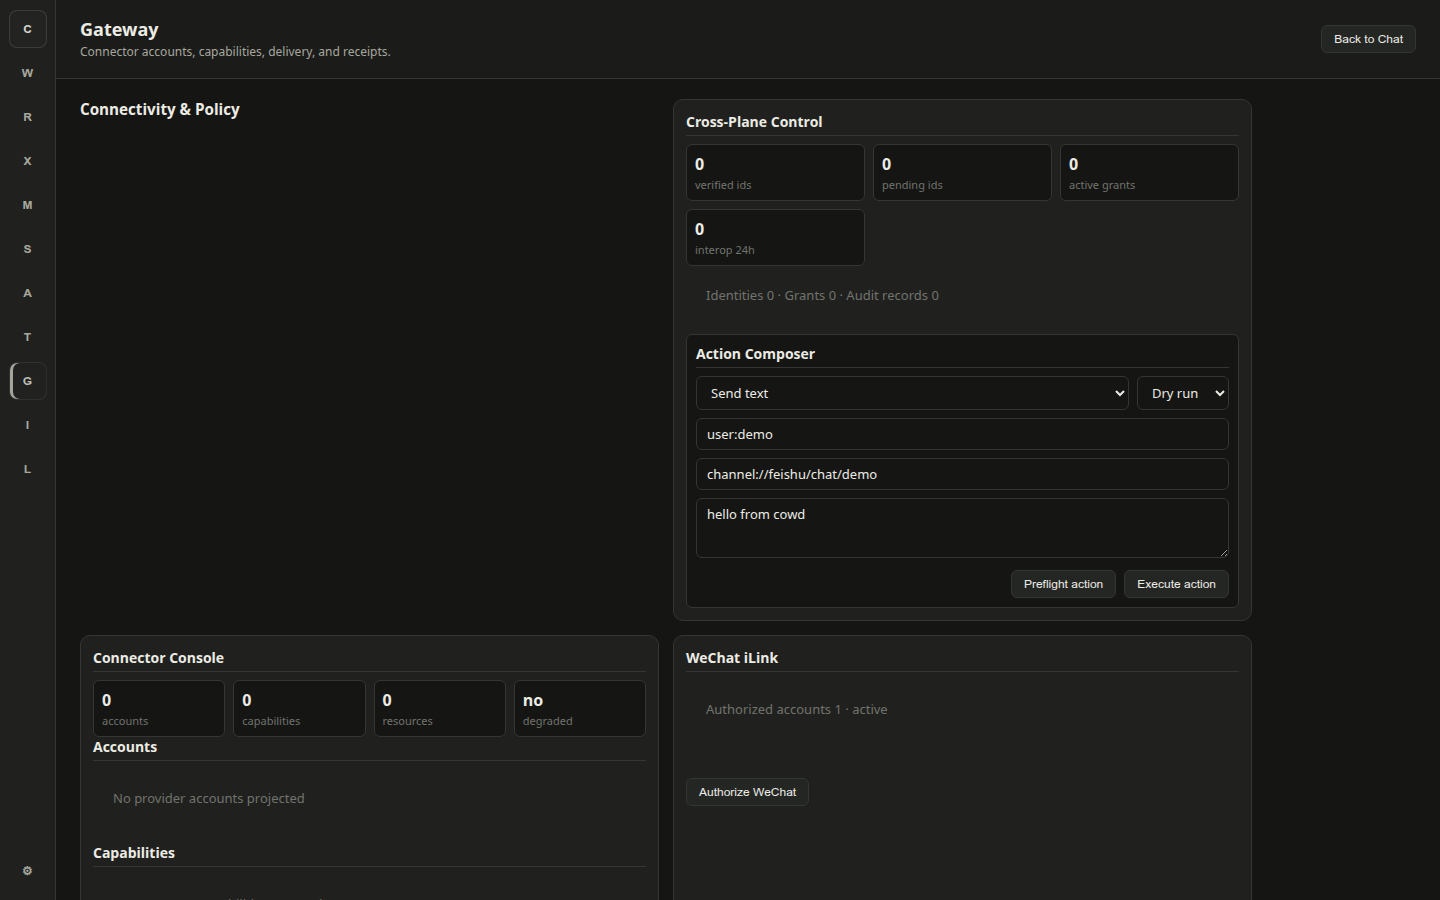
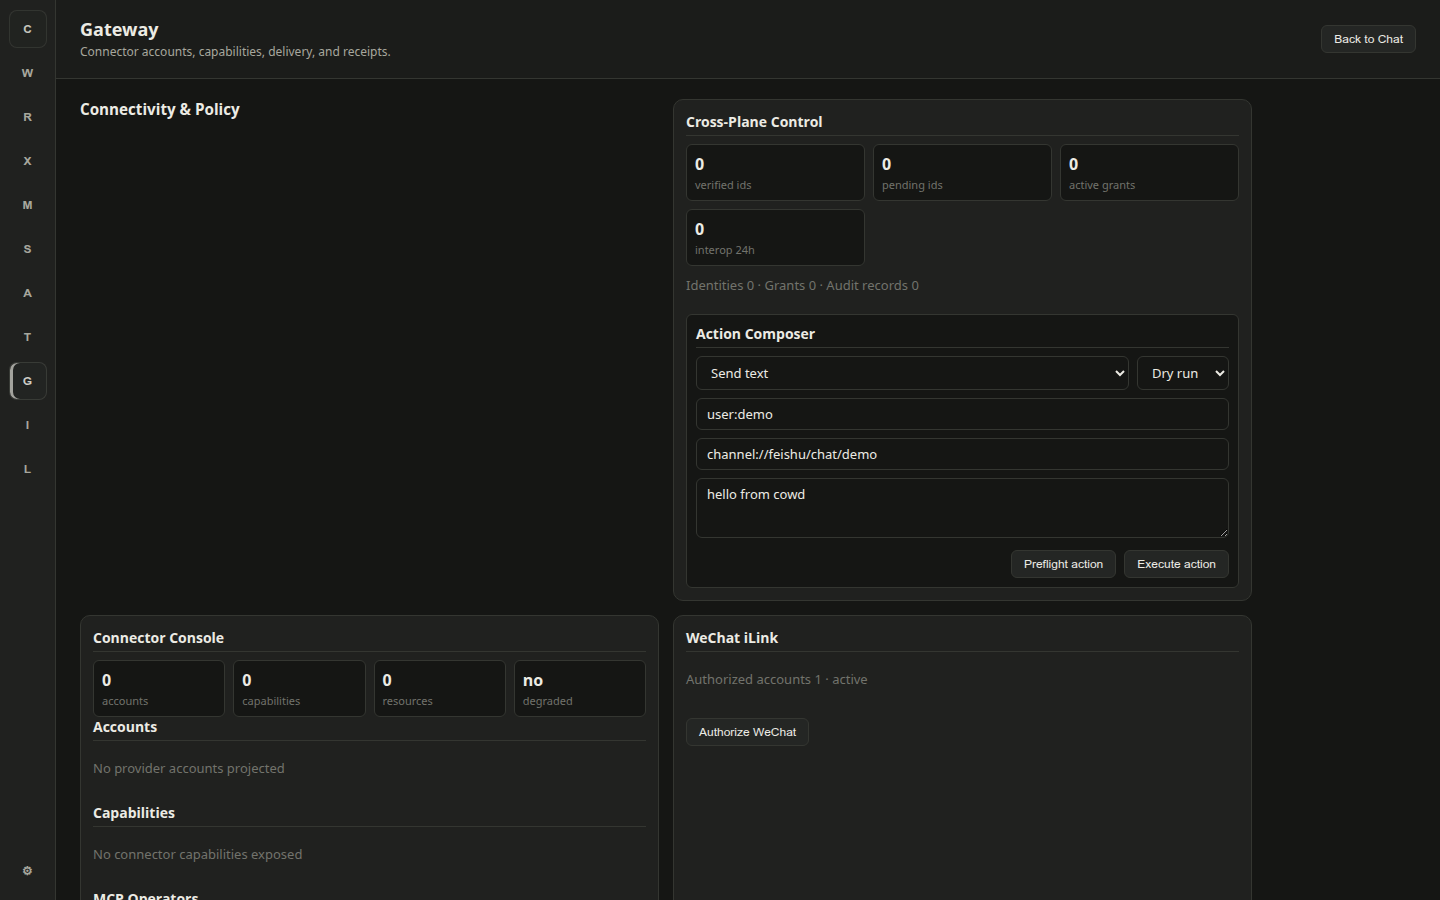
feat(webui): expand settings workbench polish

diff --git a/webui/panels.js b/webui/panels.js
@@ -2222,8 +2222,8 @@ window.Panels = (()=>{
   }
 
   async function renderSettings(){
-    const c=cont();c.innerHTML='<h3>Settings</h3>';
-    const themeSec=UI.el('div','panel-section');
+    const c=cont();c.innerHTML='';
+    const themeSec=UI.el('div','panel-section settings-theme');
     themeSec.innerHTML='<h3>Theme</h3>';
     const themeSel=UI.el('select');
     themeSel.innerHTML='<option value="dark">Dark</option><option value="light">Light</option><option value="system">System</option>';
@@ -2239,15 +2239,49 @@ window.Panels = (()=>{
     themeSec.appendChild(themeSel);
     c.appendChild(themeSec);
 
-    const modelSec=UI.el('div','panel-section');
+    const modelSec=UI.el('div','panel-section settings-model');
     modelSec.innerHTML='<h3>Default Model</h3>';
     try{
       const cfg=await Api.getConfig();
-      modelSec.innerHTML+='<p style="font-size:12px;color:var(--text2)">Current: '+(cfg.model||'unknown')+'</p>';
+      const metrics=UI.el('div','memory-metrics');
+      metrics.appendChild(renderMemoryMetric('current',cfg.model||'unknown','model'));
+      metrics.appendChild(renderMemoryMetric('version',cfg.version||'unknown','cowd'));
+      modelSec.appendChild(metrics);
     }catch(e){}
     c.appendChild(modelSec);
 
-    const profileSec=UI.el('div','panel-section');
+    const providerSec=UI.el('div','panel-section settings-providers');
+    providerSec.innerHTML='<h3>Providers</h3>';
+    c.appendChild(providerSec);
+    try{
+      const providers=await Api.getProviders();
+      const list=Array.isArray(providers.providers)?providers.providers:(Array.isArray(providers)?providers:[]);
+      const metrics=UI.el('div','memory-metrics');
+      metrics.appendChild(renderMemoryMetric('providers',list.length,'configured'));
+      metrics.appendChild(renderMemoryMetric('models',providers.model_count??providers.provider_model_count??0,'available'));
+      metrics.appendChild(renderMemoryMetric('resolved',providers.configured_model_resolved?'yes':'n/a','route'));
+      providerSec.appendChild(metrics);
+      if(list.length){
+        list.slice(0,6).forEach(function(provider){
+          const item=UI.el('div','panel-item provider-item');
+          const name=UI.el('span','pi-name');
+          name.textContent=[provider.name||provider.id||provider.provider||'provider',provider.kind||provider.type].filter(Boolean).join(' · ');
+          const actions=UI.el('span','pi-actions');
+          const badge=UI.el('span','profile-active');
+          badge.textContent=provider.status||provider.health||'configured';
+          actions.appendChild(badge);
+          item.appendChild(name);
+          item.appendChild(actions);
+          providerSec.appendChild(item);
+        });
+      }else{
+        providerSec.appendChild(UI.el('div','panel-empty','No providers reported'));
+      }
+    }catch(e){
+      providerSec.appendChild(UI.el('div','panel-empty','Providers unavailable'));
+    }
+
+    const profileSec=UI.el('div','panel-section settings-profiles');
     profileSec.innerHTML='<h3>Profiles</h3>';
     const createRow=UI.el('div','profile-create-row');
     const input=UI.el('input');
@@ -2314,6 +2348,16 @@ window.Panels = (()=>{
     }catch(e){
       profileSec.appendChild(UI.el('div','panel-empty','Profiles unavailable'));
     }
+
+    const securitySec=UI.el('div','panel-section settings-security');
+    securitySec.innerHTML='<h3>Security</h3>';
+    const authToken=localStorage.getItem('cowd-auth-token');
+    const metrics=UI.el('div','memory-metrics');
+    metrics.appendChild(renderMemoryMetric('auth',authToken?'stored':'not stored','browser'));
+    metrics.appendChild(renderMemoryMetric('origin',location.origin||'local','webui'));
+    metrics.appendChild(renderMemoryMetric('theme',localStorage.getItem('cowd-theme')||'dark','local'));
+    securitySec.appendChild(metrics);
+    c.appendChild(securitySec);
   }
 
   async function renderCCConfig(){

diff --git a/webui/webui-shell.e2e.spec.js b/webui/webui-shell.e2e.spec.js
@@ -22,6 +22,16 @@ async function routeShellApis(page) {
 
     if (path === '/api/auth/verify') return json({ ok: true });
     if (path === '/api/config') return json({ model: 'claude-sonnet-4-6', version: '0.9.202' });
+    if (path === '/api/config/providers') return json({
+      providers: [{ name: 'anthropic', kind: 'llm', status: 'ready' }, { name: 'local-tools', kind: 'tooling', status: 'ready' }],
+      model_count: 2,
+      configured_model_resolved: true,
+    });
+    if (path === '/api/profiles') return json({
+      profiles: [{ id: 'default', name: 'default', is_active: true }, { id: 'enterprise_ops', name: 'enterprise_ops', is_active: false }],
+      active_profile: 'default',
+      runtime_profile: 'default',
+    });
     if (path === '/api/sessions') return json({ sessions: [], total: 0, offset: 0, limit: 20 });
     if (path === '/api/workspace/files') return json({ files: [
       { name: 'README.md', path: 'README.md', is_dir: false },
@@ -391,6 +401,40 @@ test('v0.9.209 iacc renders as manufacturing application workbench on cowd data 
 
   await page.setViewportSize({ width: 390, height: 844 });
   await page.screenshot({ path: '../plan/0616-前端重构/screenshots/v0.9.209-iacc-mobile.png' });
+
+  expect(errors).toEqual([]);
+});
+
+test('v0.9.210 settings renders operational controls with polished responsive layout', async ({ page }) => {
+  const errors = [];
+  page.on('pageerror', err => errors.push('pageerror: ' + err.message));
+  page.on('console', msg => {
+    if (msg.type() !== 'error') return;
+    const text = msg.text();
+    if (text.includes('Failed to load resource')) return;
+    if (text.includes('Failed to find a valid digest')) return;
+    errors.push('console: ' + text);
+  });
+
+  await routeShellApis(page);
+  await page.setViewportSize({ width: 1440, height: 900 });
+  await page.goto('http://127.0.0.1:9241/index.html', { waitUntil: 'domcontentloaded' });
+
+  await page.click('#nav-rail [data-view="settings"]');
+  await expect(page.locator('#workbench-content.workbench-page-settings')).toBeVisible();
+  await expect(page.locator('#workbench-title')).toHaveText('Settings');
+  await expect(page.locator('#workbench-content')).toContainText('Theme');
+  await expect(page.locator('#workbench-content')).toContainText('Default Model');
+  await expect(page.locator('#workbench-content')).toContainText('Providers');
+  await expect(page.locator('#workbench-content')).toContainText('Profiles');
+  await expect(page.locator('#workbench-content')).toContainText('Security');
+  await expect(page.locator('#workbench-content')).toContainText('claude-sonnet-4-6');
+  await expect(page.locator('#workbench-content')).toContainText('anthropic');
+  await expect(page.locator('#workbench-content')).toContainText('enterprise_ops');
+  await page.screenshot({ path: '../plan/0616-前端重构/screenshots/v0.9.210-settings-desktop.png' });
+
+  await page.setViewportSize({ width: 390, height: 844 });
+  await page.screenshot({ path: '../plan/0616-前端重构/screenshots/v0.9.210-settings-mobile.png' });
 
   expect(errors).toEqual([]);
 });

diff --git a/webui/style.css b/webui/style.css
@@ -99,7 +99,7 @@ pre,code{font-family:var(--font-mono);font-size:13px}
 .workbench-content input:focus,.workbench-content select:focus,.workbench-content textarea:focus{outline:none;border-color:var(--accent);box-shadow:0 0 0 2px var(--focus-ring)}
 .workbench-content .panel-section{max-width:1120px}
 .workbench-content .panel-section h3{font-size:14px}
-.workbench-content .panel-empty{text-align:left}
+.workbench-content .panel-empty{text-align:left;padding:10px 0;min-height:0}
 .workspace-page{display:flex;flex-direction:column;gap:16px}
 .workspace-hero{display:flex;align-items:flex-start;justify-content:space-between;gap:16px;max-width:1120px;padding-bottom:14px;border-bottom:1px solid var(--border)}
 .workspace-hero h3{font-size:18px;font-weight:700;margin-bottom:4px}
@@ -164,6 +164,16 @@ pre,code{font-family:var(--font-mono);font-size:13px}
 .workbench-page-audit>.audit-summary{grid-column:1/-1}
 .workbench-page-gateway .panel-item,
 .workbench-page-audit .panel-item{background:var(--bg);border:1px solid var(--border);border-radius:8px;margin-bottom:8px}
+.workbench-page-settings{display:grid;grid-template-columns:minmax(260px,.72fr) minmax(0,1.28fr);gap:14px;max-width:1160px;align-items:start}
+.workbench-page-settings>.panel-section{border:1px solid var(--border);border-radius:10px;background:var(--surface-subtle);padding:12px;margin-bottom:0;min-width:0}
+.workbench-page-settings>.settings-profiles{grid-column:1/-1}
+.workbench-page-settings select,
+.workbench-page-settings input{width:100%;min-width:0;padding:8px 10px;border:1px solid var(--border);border-radius:8px;background:var(--bg);color:var(--text);font-size:13px}
+.workbench-page-settings .profile-create-row{display:grid;grid-template-columns:minmax(0,1fr) auto;gap:8px}
+.workbench-page-settings .panel-item{background:var(--bg);border:1px solid var(--border);border-radius:8px;margin-bottom:8px;min-height:42px}
+.workbench-page-settings .panel-item .pi-name{white-space:normal;line-height:1.35}
+.workbench-page-settings .panel-item .pi-actions{flex:0 0 auto;align-items:center}
+.workbench-page-settings .panel-item .pi-actions button{background:var(--surface);border-radius:7px;padding:4px 8px}
 #chat-header{display:flex;align-items:center;justify-content:space-between;padding:8px 16px;background:var(--surface);border-bottom:1px solid var(--border);min-height:44px}
 #chat-header-left{display:flex;align-items:center;gap:12px;min-width:0}
 #chat-header-right{display:flex;gap:4px}
@@ -555,6 +565,8 @@ pre,code{font-family:var(--font-mono);font-size:13px}
   .workbench-page-skills .skill-summary{grid-template-columns:1fr}
   .workbench-page-gateway,
   .workbench-page-audit{grid-template-columns:1fr}
+  .workbench-page-settings{grid-template-columns:1fr}
+  .workbench-page-settings .profile-create-row{grid-template-columns:1fr}
   .workbench-page-iacc{grid-template-columns:1fr}
   .workbench-page-iacc>.iacc-console{display:block}
   .workbench-page-iacc .iacc-report-controls{grid-template-columns:1fr;max-width:none;margin-left:0;margin-top:10px}

diff --git a/plan/0616-前端重构/10-v0.9.210-settings-polish/PLAN.md b/plan/0616-前端重构/10-v0.9.210-settings-polish/PLAN.md
@@ -1,0 +1,35 @@
+# v0.9.210 Settings + 全局 Polish 计划
+
+## 目标
+
+补齐 Settings 工作台，并收敛前面版本暴露出的通用视觉问题。
+
+1. Settings 页面形成外观、模型与 provider、profile、安全与本地状态四个管理区。
+2. Provider 状态可以在 Settings 中直接查看，不再只藏在 Control Center JSON。
+3. Profile 管理保留创建、切换、删除和 restart 提示。
+4. 全局 polish 处理空态高度、长文本、工作台按钮和移动端单列密度。
+
+## 实施范围
+
+1. `Panels.renderSettings()` 增加 settings page class、provider summary、安全状态区。
+2. `style.css` 增加 settings workbench 布局和通用 panel polish。
+3. `webui-shell.e2e.spec.js` 增加 Settings mock、断言、桌面/移动截图。
+4. 不变更后端接口，不新增设置写入行为。
+
+## TDD 验收
+
+1. `cd webui && npm test` 通过。
+2. `cd webui && npm run test:e2e -- webui-shell.e2e.spec.js` 通过。
+3. 页面断言：
+   - `#workbench-content.workbench-page-settings` 可见。
+   - 内容包含 `Theme`、`Default Model`、`Providers`、`Profiles`、`Security`。
+   - 内容包含 `claude-sonnet-4-6`、`anthropic`、`enterprise_ops`。
+4. 截图保存：
+   - `plan/0616-前端重构/screenshots/v0.9.210-settings-desktop.png`
+   - `plan/0616-前端重构/screenshots/v0.9.210-settings-mobile.png`
+
+## Polish 验收
+
+- 工作台空态不再制造大面积无意义留白。
+- Settings 按钮、选择器、输入框在桌面和移动端不溢出。
+- 长 provider/profile 文本可换行或省略，不破坏卡片。

diff --git a/plan/0616-前端重构/10-v0.9.210-settings-polish/REPORT.md b/plan/0616-前端重构/10-v0.9.210-settings-polish/REPORT.md
@@ -1,0 +1,34 @@
+# v0.9.210 Settings + 全局 Polish 验收报告
+
+## 实现结果
+
+本版本补齐 Settings 工作台，并对全局工作台空态和移动端密度做收敛。
+
+- Settings 页面拆分为 Theme、Default Model、Providers、Profiles、Security。
+- Provider 摘要从 `/api/config/providers` 读取，展示 provider 数量、模型数、路由解析状态和 provider 列表。
+- Profile 管理保留创建、切换、删除、active 标识和 restart 提示。
+- Security 区展示浏览器侧 auth token 存储状态、origin、theme 本地状态。
+- 全局工作台空态 padding 收窄，减少 Gateway 等空数据页面的大面积无意义留白。
+- e2e 增加 Settings 桌面与移动端截图。
+
+## TDD 门禁
+
+- `cd webui && npm test`：通过，81 项。
+- `cd webui && npm run test:e2e -- webui-shell.e2e.spec.js`：通过，9 项。
+
+## 视觉验收
+
+截图已保存：
+
+- `plan/0616-前端重构/screenshots/v0.9.210-settings-desktop.png`
+- `plan/0616-前端重构/screenshots/v0.9.210-settings-mobile.png`
+
+目检结论：
+
+- 桌面端 Settings 四块内容分区清晰，provider 和 profile 可扫描。
+- 移动端输入框、按钮、列表均按单列展示，没有横向溢出。
+- 长模型、origin 文本在指标卡中省略，布局稳定。
+
+## 回溯
+
+本版本达成计划目标，可以进入 v0.9.211 最终门禁和整体审计。

diff --git a/plan/0616-前端重构/reports/v0.9.210.md b/plan/0616-前端重构/reports/v0.9.210.md
@@ -1,0 +1,21 @@
+# v0.9.210 Settings + Polish
+
+## Scope
+
+Settings 工作台补齐外观、模型/provider、profile、安全状态，并收紧工作台空态与移动端控件密度。
+
+## Tests
+
+- `cd webui && npm test`
+- `cd webui && npm run test:e2e -- webui-shell.e2e.spec.js`
+
+全部通过。
+
+## Screenshots
+
+- `plan/0616-前端重构/screenshots/v0.9.210-settings-desktop.png`
+- `plan/0616-前端重构/screenshots/v0.9.210-settings-mobile.png`
+
+## Notes
+
+本版本未新增后端写入行为，Settings 主要做可视化管理入口和状态统一展示。更深的 provider/model 编辑能力需后端配置写入合同明确后再扩展。
